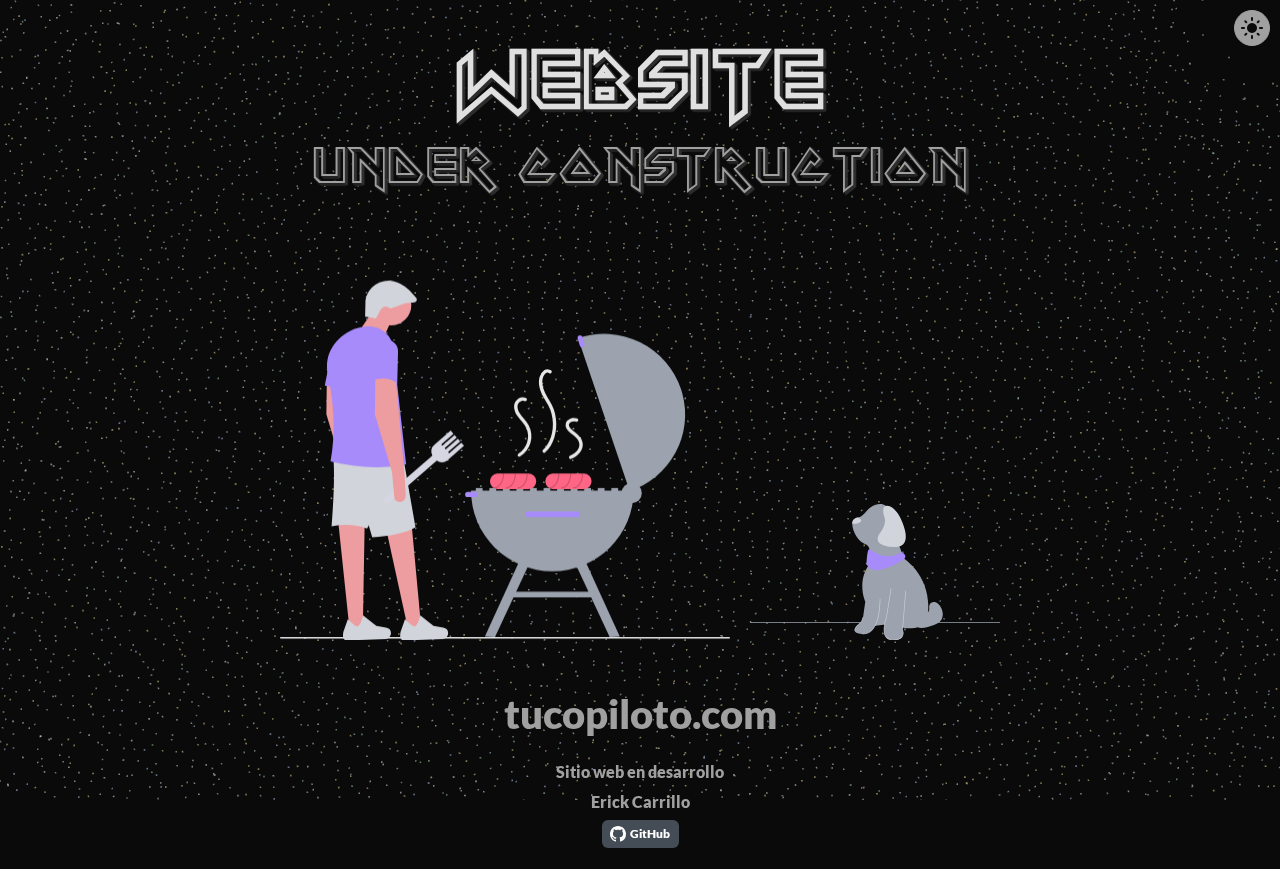
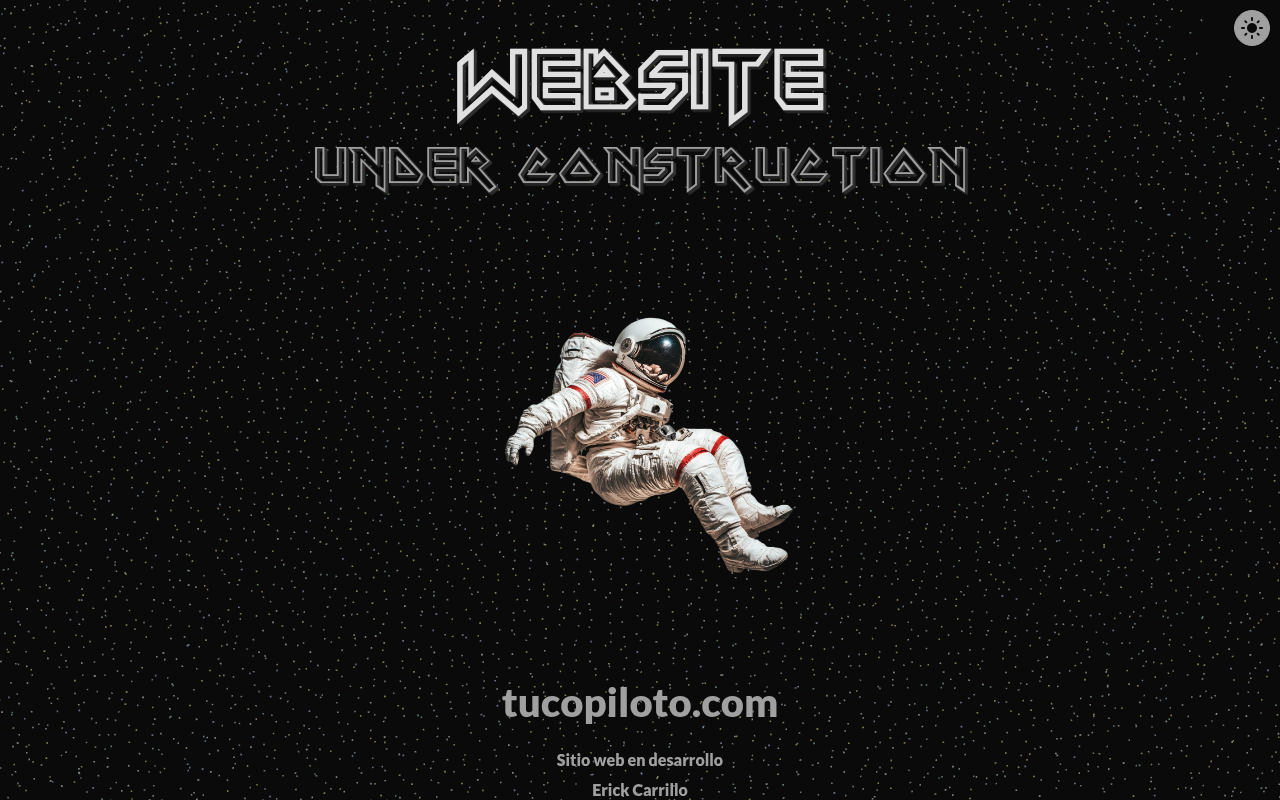
feat: replace man/dog illustrations with astronaut, increase speed 20% and size 35%
- Remove ManIllustration.svelte, DogIllustration.svelte and undraw_dog_jfxm.svg
- Add AstronautIllustration.svelte using astronaut.png with float animation at 1.67s (20% faster)
- Increase astronaut max-width from 350px to 473px (+35%)
- Update +page.svelte to use AstronautIllustration
- Update Illustrations spec test for AstronautIllustration
- Refresh light-mode and dark-mode screenshots in README

diff --git a/src/routes/+page.svelte b/src/routes/+page.svelte
@@ -2,8 +2,7 @@
 	// Importar componentes Svelte personalizados
 	import ParticleField from '$lib/components/ParticleField.svelte';
 	import ThemeToggle from '$lib/components/ThemeToggle.svelte';
-	import ManIllustration from '$lib/components/illustrations/ManIllustration.svelte';
-	import DogIllustration from '$lib/components/illustrations/DogIllustration.svelte';
+	import AstronautIllustration from '$lib/components/illustrations/AstronautIllustration.svelte';
 </script>
 
 <svelte:head>
@@ -35,21 +34,20 @@
 		<!-- Sección de título centrado -->
 		<div class="row justify-content-center">
 			<div class="col-12 main-title">
-				<h1>Website</h1>
-				<h2>under construction</h2>
+				
+				<h2>Sitio web en construccion</h2>
 			</div>
 		</div>
 
-		<!-- Contenedor para las ilustraciones SVG animadas -->
+		<!-- Contenedor para la ilustración del astronauta -->
 		<div class="illustration-container">
-			<ManIllustration />
-			<DogIllustration />
+			<AstronautIllustration />
 		</div>
 	</div>
 
 	<!-- Sección del pie de página -->
-	<footer class="footer">
-		<span style="font-size: 4rem;">tucopiloto.com</span>
+	<footer class="footer dark:text-blue-100">
+		<span style="font-size: 4rem;">tucopilo.net</span>
 		<div style="margin-top: 1rem; font-size: 1.6rem; opacity: 1;">
 			<p style="margin: 0 0 0.25rem 0;">Sitio web en desarrollo</p>
 			<p style="margin: 0 0 0.5rem 0;">Erick Carrillo</p>

diff --git a/src/lib/components/illustrations/Illustrations.svelte.spec.ts b/src/lib/components/illustrations/Illustrations.svelte.spec.ts
@@ -1,16 +1,9 @@
 import { render, screen } from '@testing-library/svelte';
 import { expect, test } from 'vitest';
-import ManIllustration from './ManIllustration.svelte';
-import DogIllustration from '$lib/components/illustrations/DogIllustration.svelte';
+import AstronautIllustration from './AstronautIllustration.svelte';
 
-test('ManIllustration renders SVG', () => {
-    render(ManIllustration);
-    const svgs = screen.getAllByRole('img');
-    expect(svgs.length).toBeGreaterThan(0);
-});
-
-test('DogIllustration renders SVG', () => {
-    render(DogIllustration);
-    const svgs = screen.getAllByRole('img');
-    expect(svgs.length).toBeGreaterThan(0);
+test('AstronautIllustration renders image', () => {
+    render(AstronautIllustration);
+    const imgs = screen.getAllByRole('img');
+    expect(imgs.length).toBeGreaterThan(0);
 });

diff --git a/src/lib/components/illustrations/AstronautIllustration.svelte b/src/lib/components/illustrations/AstronautIllustration.svelte
@@ -1,0 +1,39 @@
+<script lang="ts">
+	import astronaut from '$lib/assets/astronaut.png';
+	let { class: className = "" } = $props();
+</script>
+
+<div id="astronaut" class={className}>
+	<img src={astronaut} alt="Astronaut illustration" />
+</div>
+
+<style>
+	#astronaut {
+		animation: float 1.67s ease-in-out infinite alternate;
+		transform-box: fill-box;
+		transform-origin: bottom;
+		width: 100%;
+		max-width: 473px;
+		height: auto;
+	}
+
+	#astronaut img {
+		width: 100%;
+		height: auto;
+	}
+
+	@media (max-width: 767px) {
+		#astronaut {
+			margin-top: -2rem;
+		}
+	}
+
+	@keyframes float {
+		from {
+			transform: translateY(0px);
+		}
+		to {
+			transform: translateY(-20px);
+		}
+	}
+</style>
